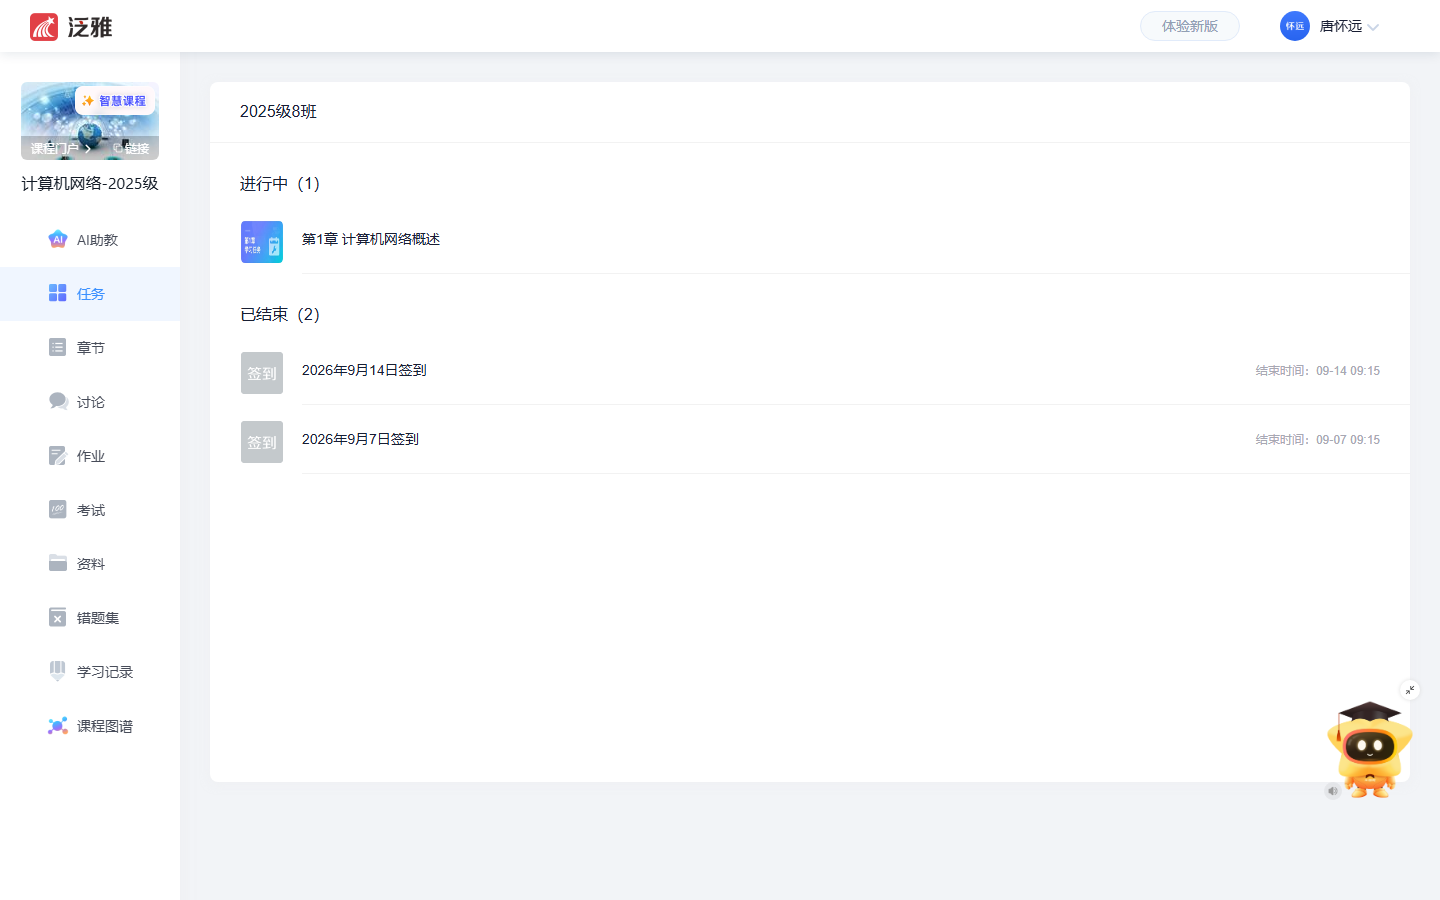
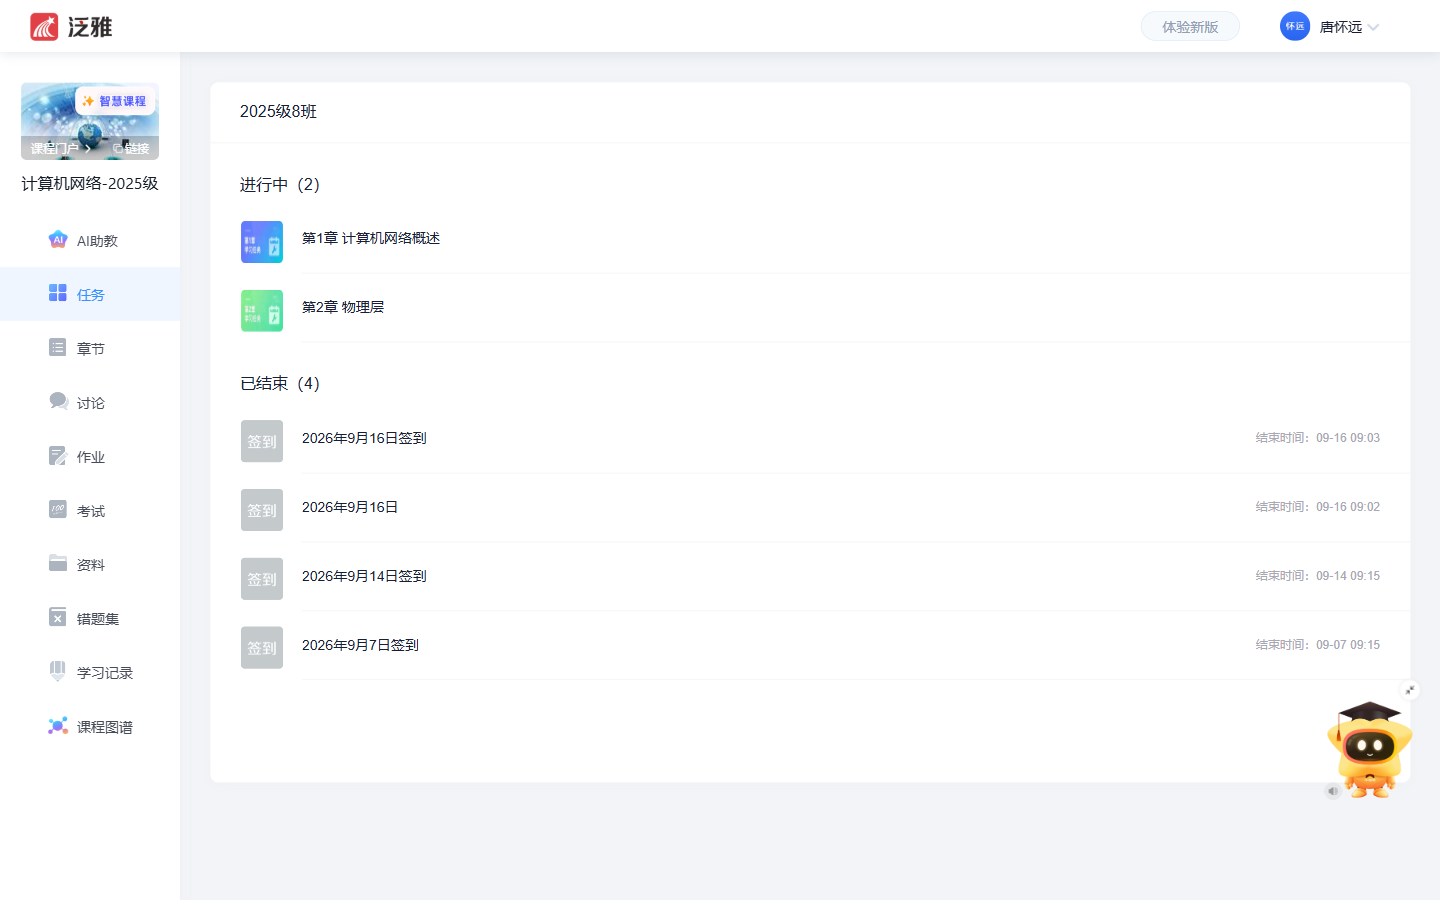
docs(m0): 回填 L2 首次真站 PASS + 结案 isPassed 假阴性；diag_login 改有头
ACCEPTANCE 第 4 节记入 R-01 达标（单次 PASS 10/10），并显式区分"单次通过"与
"连续 3 次稳定"（后者仍待验）；新增 §4.1 结案 isPassed 争议：真实响应体
6×false→2×true 的时间序列 + 1217304745 的独立佐证。

diag_login.py 同 diag_v1_login：原先写死 headless=True 不带 channel，
走的是对公网 ERR_CONNECTION_CLOSED 的 headless-shell —— 两个登录诊断脚本
因此从未真正测到过登录。改为有头 + browser_factory + --no-proxy-server。

diff --git a/scripts/diag_login.py b/scripts/diag_login.py
@@ -29,7 +29,11 @@ UA = ("Mozilla/5.0 (Windows NT 10.0; Win64; x64) AppleWebKit/537.36 "
 def main():
     clear_cookie_data()
     with sync_playwright() as p:
-        b = p.chromium.launch(headless=True)
+        # 有头 + 可配浏览器：headless=True 不带 channel 会走 headless-shell，
+        # 本机实测它对公网 ERR_CONNECTION_CLOSED → 诊断会把"连不上"误报成"登录不上"。
+        from utils.browser_factory import launch_kwargs
+        b = p.chromium.launch(headless=False, args=["--no-proxy-server"],
+                              **launch_kwargs())
         ctx = b.new_context(user_agent=UA)
         pg = ctx.new_page()
         pg.goto(COURSE_URL, wait_until="domcontentloaded", timeout=30000)
